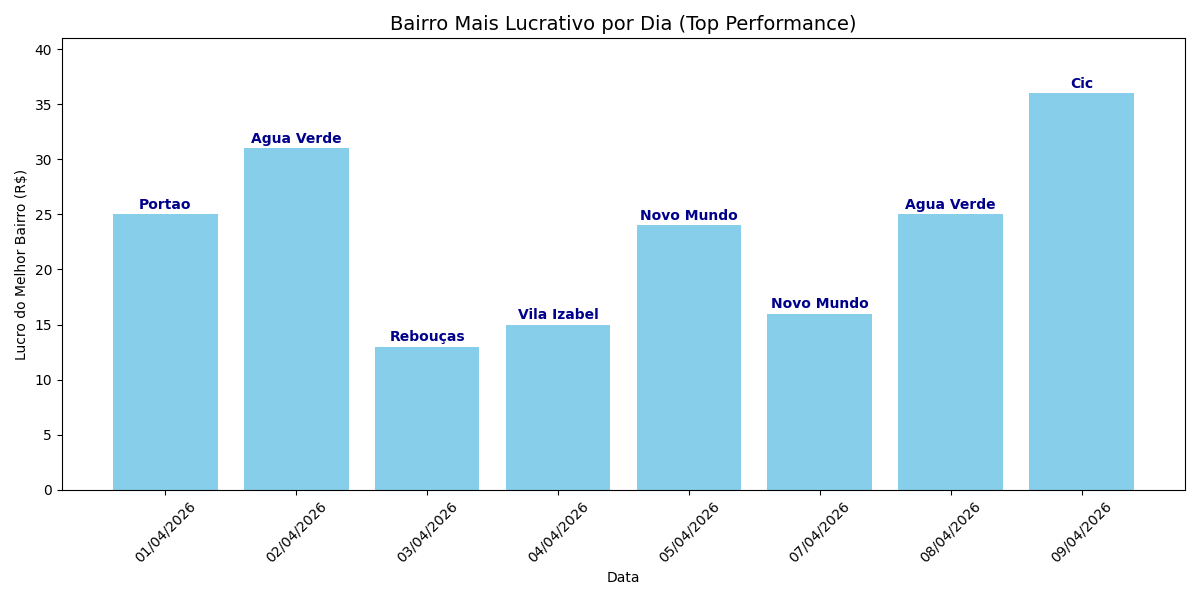
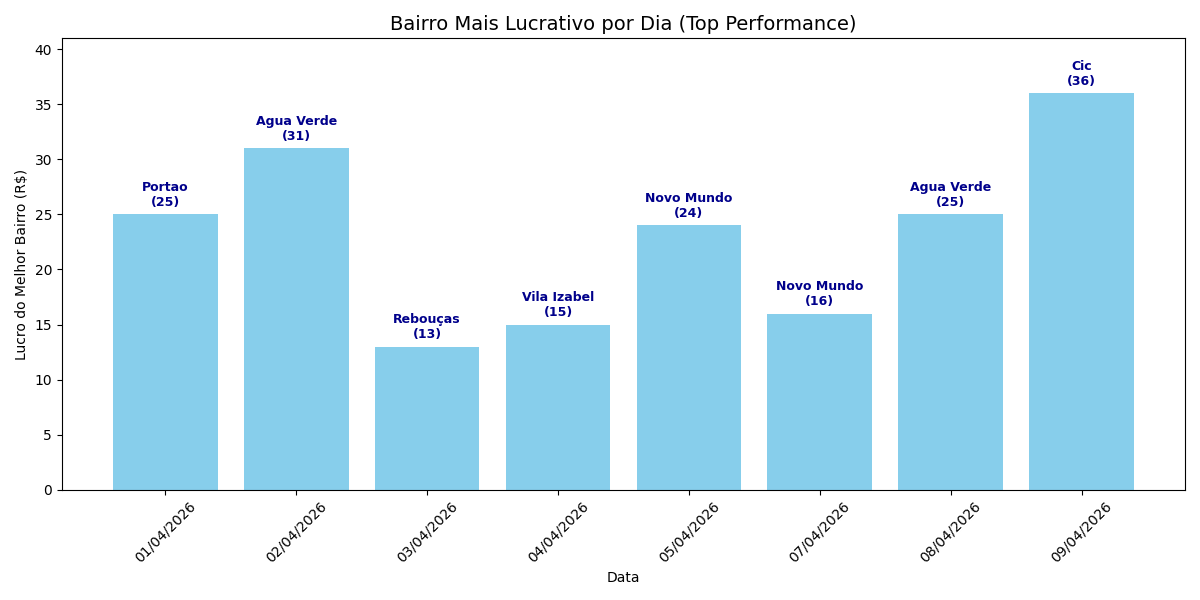
adicionando numeracao nas barras para relatorio mais completo e preciso no grafico

diff --git a/filtragem de relatorio de entregas.py b/filtragem de relatorio de entregas.py
@@ -38,16 +38,30 @@ conn = sqlite3.connect('logistica_pessoal.db') #conexao com o banco de dados
 #conn = sqlite3.connect(r'C:\Users\Jader\Documents\logistica_pessoal.db')
 df.to_sql('entregas', conn, if_exists='replace', index=False) #aqui eu digo que a tabela entregas existe e que se existe refazer
 
+#query_top_dia = """
+#SELECT data_entregas, bairro, MAX(lucro_total) as lucro_maximo
+#FROM (
+    #SELECT data_entregas, bairro, SUM(taxa) AS lucro_total
+   # SELECT lucro_maximo, COUNT(lucro_total) as quantidade_entregas
+   # FROM entregas
+   # GROUP BY data_entregas, bairro
+#)
+#GROUP BY data_entregas;
+#"""
 query_top_dia = """
-SELECT data_entregas, bairro, MAX(lucro_total) as lucro_maximo
+SELECT data_entregas, bairro, lucro_maximo, quantidade_entregas
 FROM (
-    SELECT data_entregas, bairro, SUM(taxa) AS lucro_total
+    SELECT 
+        data_entregas, 
+        bairro, 
+        SUM(taxa) AS lucro_maximo,
+        COUNT(*) AS quantidade_entregas,
+        ROW_NUMBER() OVER(PARTITION BY data_entregas ORDER BY SUM(taxa) DESC) as rank
     FROM entregas
     GROUP BY data_entregas, bairro
 )
-GROUP BY data_entregas;
+WHERE rank = 1;
 """
-
 query_volume_bairro = """
 SELECT 
     bairro, 
@@ -58,22 +72,24 @@ ORDER BY quantidade_entregas DESC;
 """
 
 
-
-# 1. Busca os dados do campeão de cada dia
 df_top = pd.read_sql(query_top_dia, conn)
 df_volume = pd.read_sql(query_volume_bairro, conn)
 conn.close()
-# 2. Criando o gráfico
+
+total_entregas_bairro = df_top['quantidade_entregas'].sum()
 plt.figure(figsize=(12, 6))
 bars = plt.bar(df_top['data_entregas'], df_top['lucro_maximo'], color='skyblue')
 
-# 3. A MÁGICA: Colocar o nome do bairro em cima da barra
-for bar, bairro in zip(bars, df_top['bairro']):
+#for bar, bairro in zip(bars, df_top['bairro']):
+    #yval = bar.get_height()
+    #plt.text(bar.get_x() + bar.get_width()/2, yval + 0.2, bairro, 
+             #ha='center', va='bottom', fontweight='bold', color='darkblue')
+for bar, bairro, qtd in zip(bars, df_top['bairro'], df_top['lucro_maximo']):
     yval = bar.get_height()
-    plt.text(bar.get_x() + bar.get_width()/2, yval + 0.2, bairro, 
-             ha='center', va='bottom', fontweight='bold', color='darkblue')
+    plt.text(bar.get_x() + bar.get_width()/2, yval + 0.5, 
+             f'{bairro}\n({int(qtd)})', 
+             ha='center', va='bottom', fontweight='bold', color='darkblue', fontsize=9)
 
-# Perfumaria
 plt.title('Bairro Mais Lucrativo por Dia (Top Performance)', fontsize=14)
 plt.xlabel('Data')
 plt.ylabel('Lucro do Melhor Bairro (R$)')
@@ -86,11 +102,20 @@ plt.show()
 
 
 
-# --- Gráfico de Quantidade de Entregas ---
+total_entregas = df_volume['quantidade_entregas'].sum()
 plt.figure(figsize=(10, 6))
 # Usando gráfico de barras horizontais (barh) para facilitar a leitura dos nomes
-plt.barh(df_volume['bairro'], df_volume['quantidade_entregas'], color='salmon')
-
+bars_a = plt.barh(df_volume['bairro'], df_volume['quantidade_entregas'], color='salmon')
+for bar in bars_a:
+    width = bar.get_width() # Pega o valor da quantidade
+    plt.text(width + 0.3,  # Posição X (um pouco depois da barra)
+             bar.get_y() + bar.get_height()/2, # Posição Y (no meio da barra)
+             f'{int(width)}', # O texto (a quantidade convertida em inteiro)
+             va='center', fontsize=10, fontweight='bold')
+plt.annotate(f'Total Geral: {total_entregas}', 
+             xy=(0.80, 0.95), xycoords='axes fraction', 
+             fontsize=12, fontweight='bold', color='white',
+             bbox=dict(boxstyle="round,pad=0.5", fc="darkred", ec="black", alpha=0.8))
 plt.title('Quantidade Total de Entregas por Bairro no MES', fontsize=14)
 plt.xlabel('Número de Entregas')
 plt.ylabel('Bairro')
